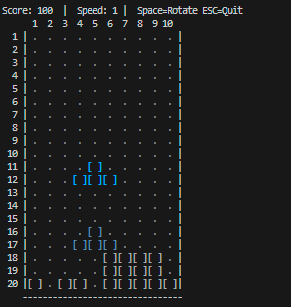
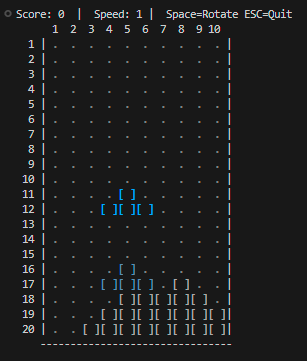
Add alternative kb event handling and functionality to log next block

diff --git a/main.cpp b/main.cpp
@@ -19,7 +19,7 @@
 using namespace std;
 
 // Game constants
-constexpr int ROW = 20, COL = 10;
+constexpr int ROW = 15, COL = 10;
 constexpr int MAX_SQUARE = ROW * COL;
 
 // Pre-computed constants for better performance
@@ -52,6 +52,7 @@ const string GREY         = "\033[38;2;170;170;170m";
 const string BLUE         = "\033[38;2;0;170;255m";
 const string BLUE_SHADOW  = "\033[38;2;50;100;150m";
 const string DARK_GREY    = "\033[38;2;80;80;80m";
+const string CORAL        = "\033[38;2;244;100;103m"; 
 const string CLEAR_SCREEN = "\033[2J\033[H";
 const string HIDE_CURSOR  = "\033[?25l";
 const string SHOW_CURSOR  = "\033[?25h";
@@ -85,7 +86,9 @@ struct Point {
 using Tetromino = vector<Point>;
 
 // Tetromino definitions with proper shapes [Noting down all offsets from a point]
-const array<Tetromino, 9> TETROMINOS = {{
+const array<Tetromino, 10> TETROMINOS = {{
+    {{0,0}, {0,1}},                         // - - Mini- I
+    {{0,0}},                                // . - Dot
     {{0,0}, {0,1}, {1,0}, {1,1}},           // O - Square
     {{-1,0}, {0,0}, {1,0}, {2,0}},          // I - Line
     {{-1,0}, {-1,1}, {0,0}, {1,0}},         // L - L-piece
@@ -93,8 +96,7 @@ const array<Tetromino, 9> TETROMINOS = {{
     {{-1,1}, {0,1}, {0,0}, {1,0}},          // S - S-piece
     {{-1,0}, {0,0}, {0,1}, {1,1}},          // Z - Z-piece
     {{-1,0}, {0,0}, {1,0}, {0,1}},          // T - T-piece
-    {{0,0}},                                // . - Dot
-    {{0,0}, {0,1}},                         // - - 2 Length I
+    {{0,0}, {1,1}},                         // / - slash
 }};
 
 // Current piece state
@@ -102,8 +104,9 @@ struct BlockPiece {
     Tetromino shape;
     Point position;
     int rotation = 0;
+    int type = 0; // Store the tetromino type index
     
-    BlockPiece(const Tetromino& t, Point pos) : shape(t), position(pos) {}
+    BlockPiece(const Tetromino& t, Point pos, int piece_type) : shape(t), position(pos), type(piece_type) {}
     
     // Get current rotated shape
     Tetromino get_rotated_shape() const {
@@ -140,7 +143,6 @@ Point create_spawn_point() {
 inline bool is_valid_position(int col, int row) noexcept {
     return col >= 0 && col < COL && row >= 0 && row < ROW;
 }
-
 
 // Add a block to the image at the given position
 inline void mark_point_on_img(Point pt, bitset<MAX_SQUARE>& image) noexcept {
@@ -232,14 +234,51 @@ bitset<MAX_SQUARE> block_shadow(const bitset<MAX_SQUARE>& screen, BlockPiece pie
     return create_image(shadow_piece);
 }
 
+// Display the next piece preview
+void display_next_piece(const BlockPiece& next_piece, string *output_buffer) {
+    *output_buffer += ("Next Piece:" + RESET + "\n");
+    
+    // Create a small preview of the next piece
+    auto shape = next_piece.shape;
+    
+    // Find bounds of the piece
+    int min_col = 0, max_col = 0;
+    for (const auto& pt : shape) {
+        min_col = min(min_col, pt.col);
+        max_col = max(max_col, pt.col);
+    }
+    
+    // Always display a consistent 4x4 preview grid
+    const int preview_size = 4;
+    for (int row = preview_size - 1; row >= 0; row--) {
+        *output_buffer += (GREY + " ." + RESET);
+        for (int col = min_col; col <= min_col + preview_size - 1; col++) {
+            bool found = false;
+            for (const auto& pt : shape) {
+                if (pt.col == col && pt.row == row) {
+                    found = true;
+                    break;
+                }
+            }
+            if (found) {
+                *output_buffer += (CORAL + "[]" + RESET);
+            } else {
+                *output_buffer += (GREY + " ." + RESET);
+            }
+        }
+        *output_buffer += "\n";
+    }
+    *output_buffer += "\n";
+}
+
 // Display the game board
 void display_board(
         const bitset<MAX_SQUARE>& screen, const bitset<MAX_SQUARE>& image, 
-        const BlockPiece& piece, unsigned score, unsigned speed, bool display_shadow = true
+        const BlockPiece& piece, const BlockPiece& next_piece, unsigned score, unsigned speed, bool display_shadow = true
     ) {
     static string output_buffer;
     output_buffer.clear();
-    output_buffer.reserve(3072); // Pre-allocate buffer
+    output_buffer.reserve(3072);
     
     output_buffer += MOVE_HOME;
 
@@ -249,17 +288,26 @@ void display_board(
     }
 
     const bool larger_mode = (COL >= 10);
-
+    
     // Score and controls
-    output_buffer += "Score: " + to_string(score) + "  |  Speed: " + to_string(speed) + " |  Space=Rotate ESC=Quit\n";
+    output_buffer += "Score: " + to_string(score) + "  |  Speed: " + to_string(speed) + " |  Space=Rotate ESC=Quit\n\n";
+
+    cout << output_buffer;
+    output_buffer.clear();
+
+    // Display next piece
+    display_next_piece(next_piece, &output_buffer);
+    
+    cout << output_buffer;
+    output_buffer.clear();
 
     // Header row
-    output_buffer += "     ";
+    output_buffer += "    |";
     for (int i = 0; i < COL; i++) {
         output_buffer += (i < 9 ? " " : "") + to_string(i + 1);
         if (larger_mode) output_buffer += " ";
     }
-    output_buffer += '\n';
+    output_buffer += "|\n";
 
     // Pre-compute block strings
     const string grey_block = BOLD + GREY + "[" + (larger_mode ? " " : "") + "]" + RESET;
@@ -288,11 +336,11 @@ void display_board(
     }
     
     // Bottom border
-    output_buffer += "    -";
+    output_buffer += "    +";
     for (int i = 0; i < COL * (larger_mode ? 3 : 2); i++) {
         output_buffer += "-";
     }
-    output_buffer += "-\n";
+    output_buffer += "+\n";
     
     cout << output_buffer << flush;
 }
@@ -424,6 +472,18 @@ void handle_kb_event(bitset<MAX_SQUARE>& screen, BlockPiece& piece, bitset<MAX_S
         }
     } else {
         switch (key) {
+            case 's':  // Down arrow
+                block_drop(screen, piece, image);
+                break;
+            case 'a':  // Left arrow
+                block_move_horizontal(screen, piece, image, -1);
+                break;
+            case 'd':  // Right arrow
+                block_move_horizontal(screen, piece, image, 1);
+                break;
+            case 'w':  // Up arrow (alternative rotate)
+                block_rotate(screen, piece, image);
+                break;
             case 27:  // ESC
                 running = false;
                 break;
@@ -438,10 +498,10 @@ void handle_kb_event(bitset<MAX_SQUARE>& screen, BlockPiece& piece, bitset<MAX_S
     }
 }
 
-// Functrion to spawn new random piece
+// Function to spawn new random piece
 BlockPiece spawn_new_piece() {
     int piece_type = random_number(0, TETROMINOS.size());
-    return BlockPiece(TETROMINOS[piece_type], create_spawn_point());
+    return BlockPiece(TETROMINOS[piece_type], create_spawn_point(), piece_type);
 }
 
 // Main game loop
@@ -457,6 +517,7 @@ void game_loop() {
     hide_cursor();
     
     BlockPiece current_piece = spawn_new_piece();
+    BlockPiece next_piece = spawn_new_piece(); // Generate the next piece
     image = create_image(current_piece);
     
     auto last_fall = chrono::steady_clock::now();
@@ -481,8 +542,9 @@ void game_loop() {
                 check_for_score(screen, score);
                 level = score / 250 + 1;
                 
-                // Spawn new piece
-                current_piece = spawn_new_piece();
+                // Move next piece to current and generate new next piece
+                current_piece = next_piece;
+                next_piece = spawn_new_piece();
                 image = create_image(current_piece);
                 
                 // Check game over
@@ -495,7 +557,7 @@ void game_loop() {
         }
         
         // Render
-        display_board(screen, image, current_piece, score, level);
+        display_board(screen, image, current_piece, next_piece, score, level);
         
         // Maintain ~60 FPS
         const auto frame_end = chrono::high_resolution_clock::now();
@@ -518,6 +580,15 @@ void game_loop() {
 }
 
 int main() {
+    // Some Setting Checks
+    if (COL < 5){
+        cerr << "Error: Screen width must be at least 5 characters.\n";
+        return 1;
+    } else if (ROW < 3) {
+        cerr << "Error: Screen height must be at least 5 characters.\n";
+        return 1;
+    }
+
     enable_ansi_support();
     game_loop();
     return 0;
